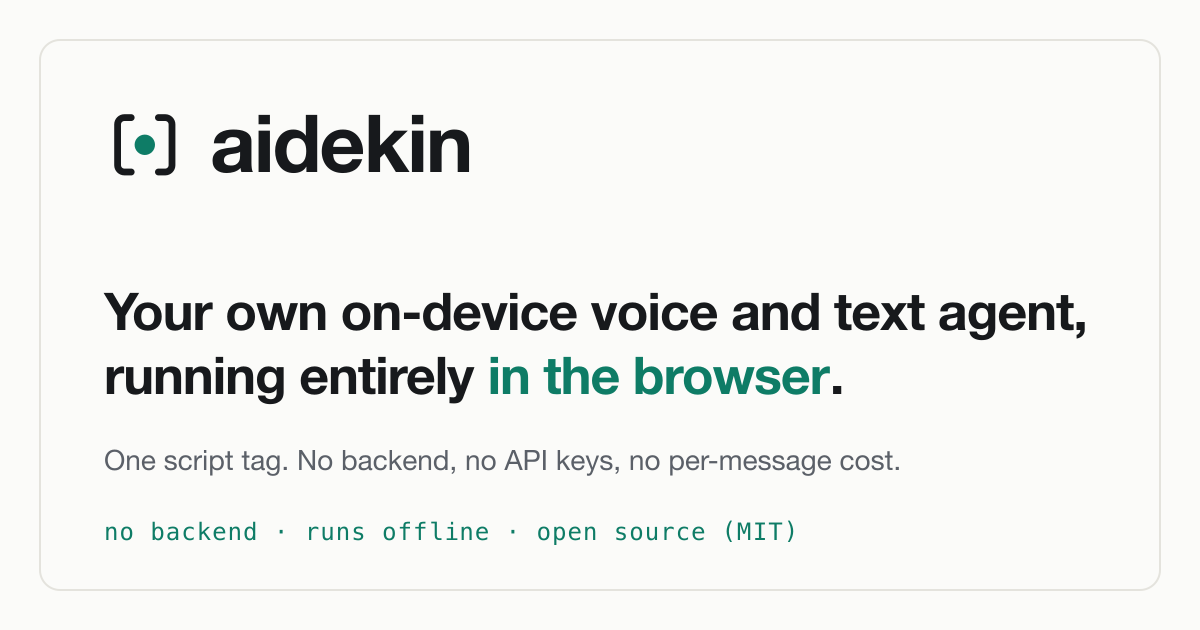
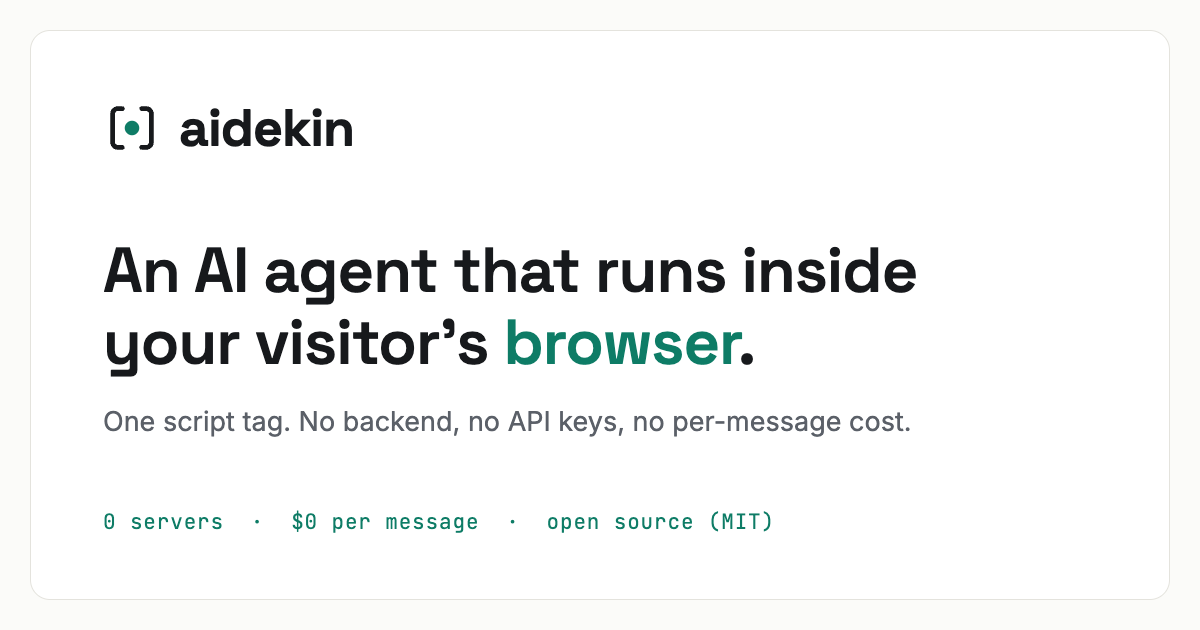
Responsive footer (nothing hidden) + SEO alignment pass
Footer: the tagline was hidden below the sm breakpoint (data loss,
exactly what a footer redesign must not do) and the grown link set
wrapped awkwardly. Now two stacked rows on phones - full brand line,
then links wrapping with even gaps - merging into the one-line spread
on wide screens; verified at 320/390/1380px.

SEO: og:title, twitter:title, og:image:alt, the static <title>, and
HOME_TITLE all now carry the hero's actual headline (an AI agent that
runs inside your visitor's browser) instead of the pre-review tagline;
og.png regenerated to match word-for-word in the site's own fonts and
palette (Space Grotesk/Inter/JetBrains Mono, paper + jade), ending on
the ledger stats; static canonical added for non-JS crawlers (the
route-meta hook keeps updating it per page). The Copperleaf demo page
gains its own social card (title, description, screenshot image), so
shared demo links unfurl properly too.

diff --git a/src/site/Layout.tsx b/src/site/Layout.tsx
@@ -202,37 +202,38 @@ function ThemeToggle() {
 }
 
 function SiteFooter() {
+  const links: Array<{ label: string; to?: string; href?: string }> = [
+    { to: '/docs', label: 'Docs' },
+    { to: '/privacy', label: 'Privacy' },
+    { to: '/terms', label: 'Terms' },
+    { href: GITHUB_URL, label: 'GitHub' },
+    { href: 'https://github.com/stfurkan/bitgpu', label: 'Built on bitgpu' },
+    { href: `${GITHUB_URL}/issues`, label: 'Report a problem' },
+  ]
   return (
     <footer className="border-t border-border">
-      <div className="mx-auto flex max-w-6xl flex-col items-center justify-between gap-4 px-5 py-8 text-sm text-muted-foreground sm:flex-row">
-        <div className="flex items-center gap-2.5">
-          <AidekinMark className="size-4 shrink-0 text-foreground" coreClassName="fill-primary" />
+      {/* Two stacked rows on phones (brand line, then links wrapping over several rows),
+          merging into the one-line spread on wide screens. Nothing is hidden at any width. */}
+      <div className="mx-auto flex max-w-6xl flex-col gap-5 px-5 py-8 text-sm text-muted-foreground lg:flex-row lg:items-center lg:justify-between">
+        <div className="flex items-start gap-2.5 lg:items-center">
+          <AidekinMark className="mt-0.5 size-4 shrink-0 text-foreground lg:mt-0" coreClassName="fill-primary" />
           <span>
-            <span className="font-medium text-foreground">aidekin</span>
-            <span className="hidden sm:inline">
-              , your own voice and text agent, running 100% in the browser.
-            </span>
+            <span className="font-medium text-foreground">aidekin</span>, your own voice and text
+            agent, running 100% in the browser.
           </span>
         </div>
-        <div className="flex flex-wrap items-center gap-x-4 gap-y-1">
-          <Link to="/docs" className="hover:text-foreground">
-            Docs
-          </Link>
-          <Link to="/privacy" className="hover:text-foreground">
-            Privacy
-          </Link>
-          <Link to="/terms" className="hover:text-foreground">
-            Terms
-          </Link>
-          <a href={GITHUB_URL} target="_blank" rel="noreferrer" className="hover:text-foreground">
-            GitHub
-          </a>
-          <a href="https://github.com/stfurkan/bitgpu" target="_blank" rel="noreferrer" className="hover:text-foreground">
-            Built on bitgpu
-          </a>
-          <a href={`${GITHUB_URL}/issues`} target="_blank" rel="noreferrer" className="hover:text-foreground">
-            Report a problem
-          </a>
+        <div className="flex flex-wrap items-center gap-x-5 gap-y-2 lg:justify-end">
+          {links.map((l) =>
+            l.to ? (
+              <Link key={l.label} to={l.to} className="hover:text-foreground">
+                {l.label}
+              </Link>
+            ) : (
+              <a key={l.label} href={l.href} target="_blank" rel="noreferrer" className="hover:text-foreground">
+                {l.label}
+              </a>
+            ),
+          )}
           <span className="opacity-60">MIT licensed</span>
         </div>
       </div>

diff --git a/index.html b/index.html
@@ -11,18 +11,19 @@
     />
     <meta property="og:type" content="website" />
     <meta property="og:site_name" content="aidekin" />
-    <meta property="og:title" content="aidekin: your own on-device voice and text agent" />
+    <meta property="og:title" content="aidekin: an AI agent that runs inside your visitor's browser" />
     <meta
       property="og:description"
       content="One script tag gives your visitors a private voice and text AI agent that runs entirely in their browser. No backend, no API keys, no per-message cost."
     />
     <meta property="og:url" content="https://aidekin.com" />
+    <link rel="canonical" href="https://aidekin.com/" />
     <meta property="og:image" content="https://aidekin.com/og.png" />
     <meta property="og:image:width" content="1200" />
     <meta property="og:image:height" content="630" />
-    <meta property="og:image:alt" content="aidekin: on-device voice and text agent" />
+    <meta property="og:image:alt" content="aidekin: an AI agent that runs inside your visitor's browser" />
     <meta name="twitter:card" content="summary_large_image" />
-    <meta name="twitter:title" content="aidekin: your own on-device voice and text agent" />
+    <meta name="twitter:title" content="aidekin: an AI agent that runs inside your visitor's browser" />
     <meta
       name="twitter:description"
       content="A private voice and text AI agent that runs entirely in the browser. No backend, no API keys, no per-message cost."
@@ -47,7 +48,7 @@
         href="https://fonts.googleapis.com/css2?family=Space+Grotesk:wght@400;500;600;700&family=Inter:wght@400;500;600&family=JetBrains+Mono:wght@400;500&display=swap"
       />
     </noscript>
-    <title>aidekin: your own on-device voice and text agent</title>
+    <title>aidekin: an AI agent that runs inside your visitor’s browser</title>
     <script>
       // Apply the saved/system theme before paint to avoid a flash.
       try {

diff --git a/src/site/useRouteMeta.ts b/src/site/useRouteMeta.ts
@@ -8,7 +8,7 @@ import { useLocation } from 'react-router-dom'
 
 const SITE = 'aidekin'
 const ORIGIN = 'https://aidekin.com'
-const HOME_TITLE = 'aidekin: your own on-device voice and text agent'
+const HOME_TITLE = 'aidekin: an AI agent that runs inside your visitor’s browser'
 const DEFAULT_DESC =
   'A private voice and text AI agent that runs entirely in the browser. No backend, no API keys, no per-message cost.'
 